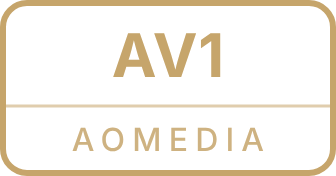
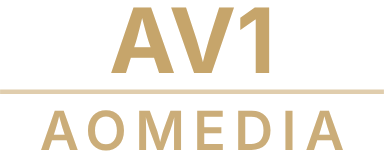
Borderless, tighter badges sized for the app badge height
Claude-Session: https://claude.ai/code/session_01YC6KB5EZ8ovPvHMJbFMYdf

diff --git a/README.md b/README.md
@@ -1,7 +1,7 @@
 # aiostreams-badges
 
 Image badges for AIOStreams version lists. Gold = optimal, grey = acceptable.
-Transparent PNG (4x) + SVG source. Typeface: Inter.
+Borderless transparent PNG (6x) + SVG source, framed by the app border. Typeface: Inter.
 
 ## Files
 
